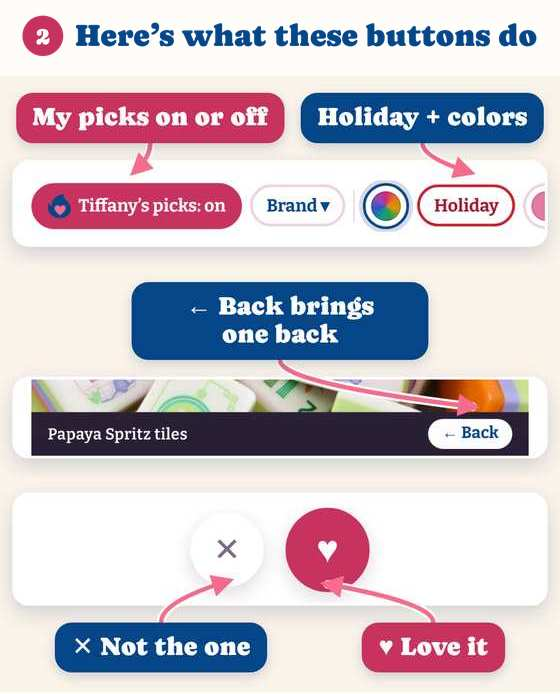
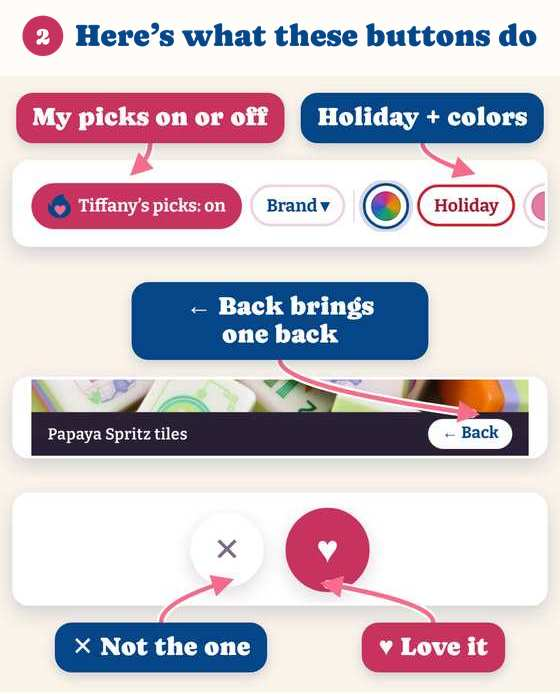
FYM tutorial: step 6 caption no longer repeats the code line; tut2 Back arrow lands on the Back pill
Claude-Session: https://claude.ai/code/session_014aKoC1ZMdZPjGkZ9kHhnLk

Changed region(s): [[0.4857, 0.5144, 0.8804, 0.6052]]

diff --git a/scripts/fym_promo/render2.py b/scripts/fym_promo/render2.py
@@ -30,10 +30,10 @@ STEPS = [
          caption='Tap &hearts; to love a mat and &#10005; when it&rsquo;s not the one. Swiped too fast? &larr;&nbsp;Back brings it back. My picks show first; tap Tiffany&rsquo;s picks to see every mat. Tap a color or Holiday to narrow the mats, and tap it again to clear&nbsp;it.',
          alt='Swiping mats for Papaya Spritz tiles, with the Haven mat by Britt Mills on screen. Arrows point to the Tiffany’s picks button (my picks on or off), the Holiday and color buttons, the Back button (brings the last mat back), the X button (not the one) and the heart button (love it).',
          parts=[((365, 425), [('My picks on or off', ROSE, 'top', 90, 380), ('Holiday + colors', NAVY, 'top', 332, 381)]),
-                ((515, 1174), [('&larr; Back brings one back', NAVY, 'top', 335, 591),
+                ((515, 1174), [('&larr; Back brings one back', NAVY, 'top', 335, 596),
                                ('&#10005; Not the one', NAVY, 'bottom', 156, 1150), ('&hearts; Love it', ROSE, 'bottom', 230, 1152)])],
          email=[((365, 425), [('My picks on or off', ROSE, 'top', 90, 380), ('Holiday + colors', NAVY, 'top', 332, 381)]),
-                ((562, 618), [('&larr; Back brings one back', NAVY, 'top', 335, 591)]),
+                ((562, 618), [('&larr; Back brings one back', NAVY, 'top', 335, 596)]),
                 ((1095, 1174), [('&#10005; Not the one', NAVY, 'bottom', 156, 1150), ('&hearts; Love it', ROSE, 'bottom', 230, 1152)])]),
     dict(title='Your shortlist', screen='swipe',
          caption='Every mat you &hearts; waits at the bottom, so you can compare. When you&rsquo;re ready, tap Next: add&nbsp;racks.',
@@ -50,7 +50,7 @@ STEPS = [
          parts=[((2570, 2680), [('Pick your view', NAVY, 'top', 104, 2600), ('Story, Post or Pin size', ROSE, 'bottom', 195, 2671)]),
                 ((2684, 3205), [('Save or share it', ROSE, 'bottom', 195, 3186)])]),
     dict(title='Use code MAHJMATCH to save', screen='card',
-         caption='Every piece on your card is linked. Use code MAHJMATCH to save with our partner brands; each brand&rsquo;s code page has the&nbsp;details.',
+         caption='Every piece on your card is linked, with each partner brand&rsquo;s code one tap&nbsp;away.',
          alt='The bottom of the match card, with the line Use code MAHJMATCH to save, and the Take them home list. Arrows point to the code line and to a Shop button.',
          parts=[((3070, 3318), [('Use code MAHJMATCH to save', NAVY, 'top', 195, 3121), ('Shop every piece', ROSE, 'bottom', 345, 3282)])]),
 ]
